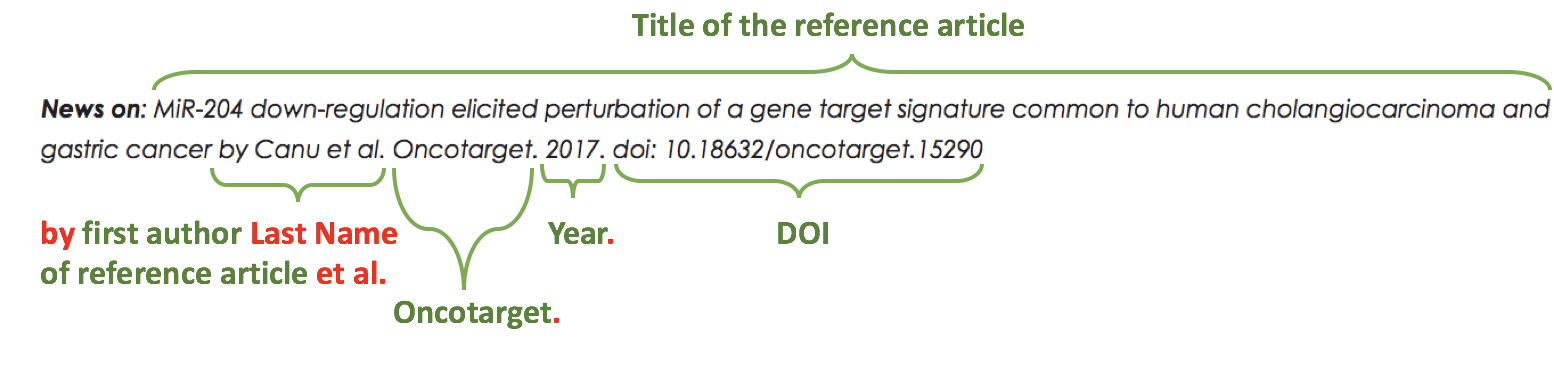
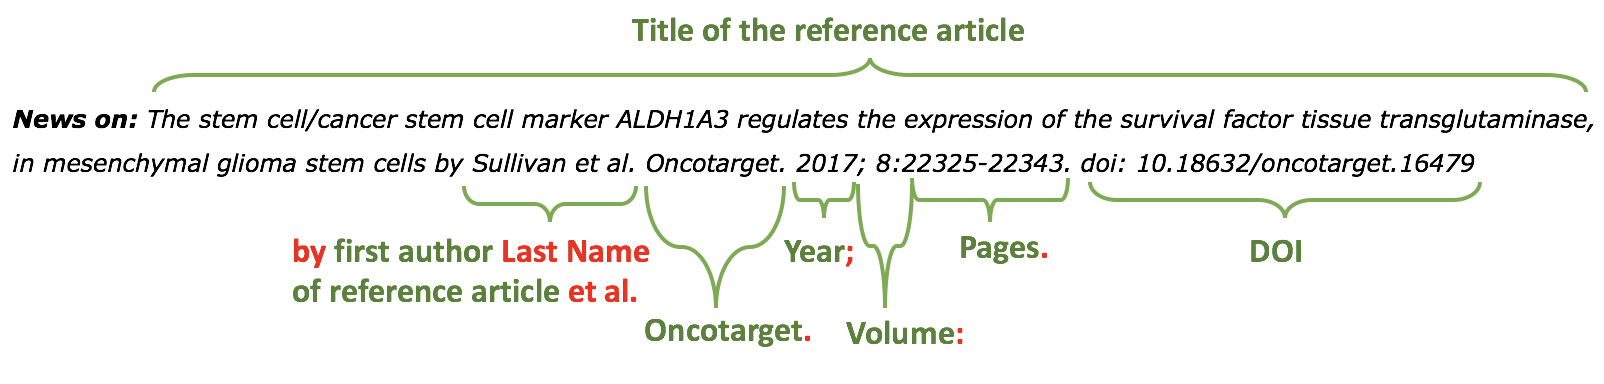
xcX

diff --git a/editorials.rst b/editorials.rst
@@ -79,7 +79,11 @@ If you see that author name does not comply to these standards, please contact c
 
 	- Check that reference line contains the following elements:
 
-	:samplebi:`News on:` :samplei:`<Title of the reference article> by <first author Last Name of reference article> et al. Oncotarget. YEAR. DOI`    
+	:samplebi:`News on:` :samplei:`<Title of the reference article> by <first author Last Name of reference article> et al. Oncotarget. Year; Vol: Pages. DOI`
+
+	**OR in case of Ahead of print articles:**
+
+	:samplebi:`News on:` :samplei:`<Title of the reference article> by <first author Last Name of reference article> et al. Oncotarget. Year Month Day. DOI [Epub ahead of print]`
 
 	- Check that "News on:" is formatted in bold italics and colored in black.
 
@@ -87,14 +91,48 @@ If you see that author name does not comply to these standards, please contact c
 
 	- Check that first author (or first auhtor et al.) is followed by "Oncotarget."
 
-	- Check that "Oncotarget." is followed by "YEAR" (4 digits, e.g. "2017").
+3.2.1. "Regular" articles:
 
-	- Check that "YEAR" is followed by "DOI". DOI can be followed by dot (.), but this is not mandatory.
+	- Check that "Oncotarget." is followed by Year (4 digits, e.g. "2017"). Year should be presented in full (4 digits) and should be followed by semicolon (;). There can be a space after semicolon (but this is not mandatory).
+
+	- Check that year is followed by Volume. Volume should be one or more digits and should be followed by colon (:). There can be a space after colon (but this is not mandatory).
+
+	- Check that Volume is followed by Page numbers. Page numbers can be in either in short (12063-74) of full (12063-12074) format and should be followed by period (.). There should be a space after period.
+
+	- DOI should be present and it should not contain spaces. There are 2 allowed formats of doi:
+
+		| https://doi.org/ ... (e.g. https://doi.org/10.18632/oncoscience.292.)
+		| doi: ... (e.g. doi: 10.1177/1947601910396213.)
 
 
-.. image:: /_static/editor_news_reference.png
-   :alt: Author list separators
-   :scale: 60%
+	- DOI can be followed by period (but this is not mandatory).
+
+	.. image:: /_static/editor_news_reference.png
+	   :alt: Author list separators
+	   :scale: 60%
+
+3.2.2. Ahead of print articles:
+	
+	- Check that "Oncotarget." is followed by Year (4 digits, e.g. "2017"). Year should be presented in full (4 digits) and should be followed by semicolon (;). There can be a space after semicolon (but this is not mandatory).
+
+	- Check that Year is followed by Month. Month should be written in abbreviated form in accordance with journal style.
+
+	- Check that Month is followed by Day (2 digits).  Note that sigle Day digits should be preceeded by 0 (zero). Day should be followed by period (.). There should be a space after period.
+
+	- DOI should be present and it should not contain spaces. There are 2 allowed formats of doi:
+
+		| https://doi.org/ ... (e.g. https://doi.org/10.18632/oncoscience.292.)
+		| doi: ... (e.g. doi: 10.1177/1947601910396213.)
+
+
+	- DOI should be followed by period (.) and space.
+
+	- [Epub ahead of print] should follow doi. There can be a period after [Epub ahead of print] (but it is not mandatory).
+
+
+	.. image:: /_static/editor_news_reference_aop.png
+	   :alt: Author list separators
+	   :scale: 60%
 
 
 4. Affiliation text
